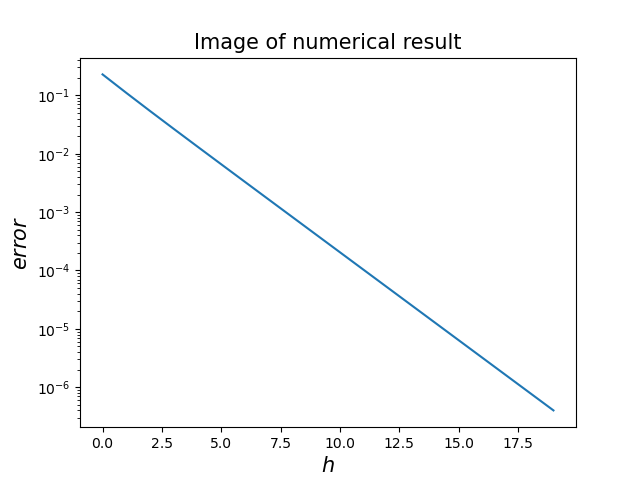
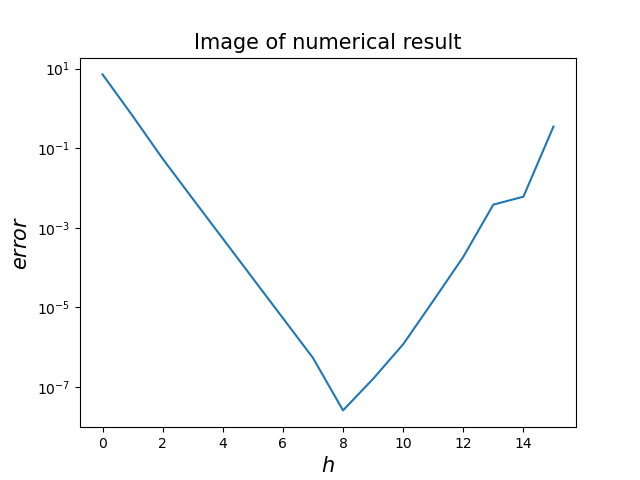
feat: add hw1 solution

diff --git a/hw1/problem1.py b/hw1/problem1.py
@@ -7,5 +7,5 @@ def derivative_forward(f, x, h):
 
 
 def derivative_centered(f, x, h):
-    tmp = (f(x + h) - f(x - h)) / h
+    tmp = (f(x + h) - f(x - h)) / (2 * h)
     return tmp
